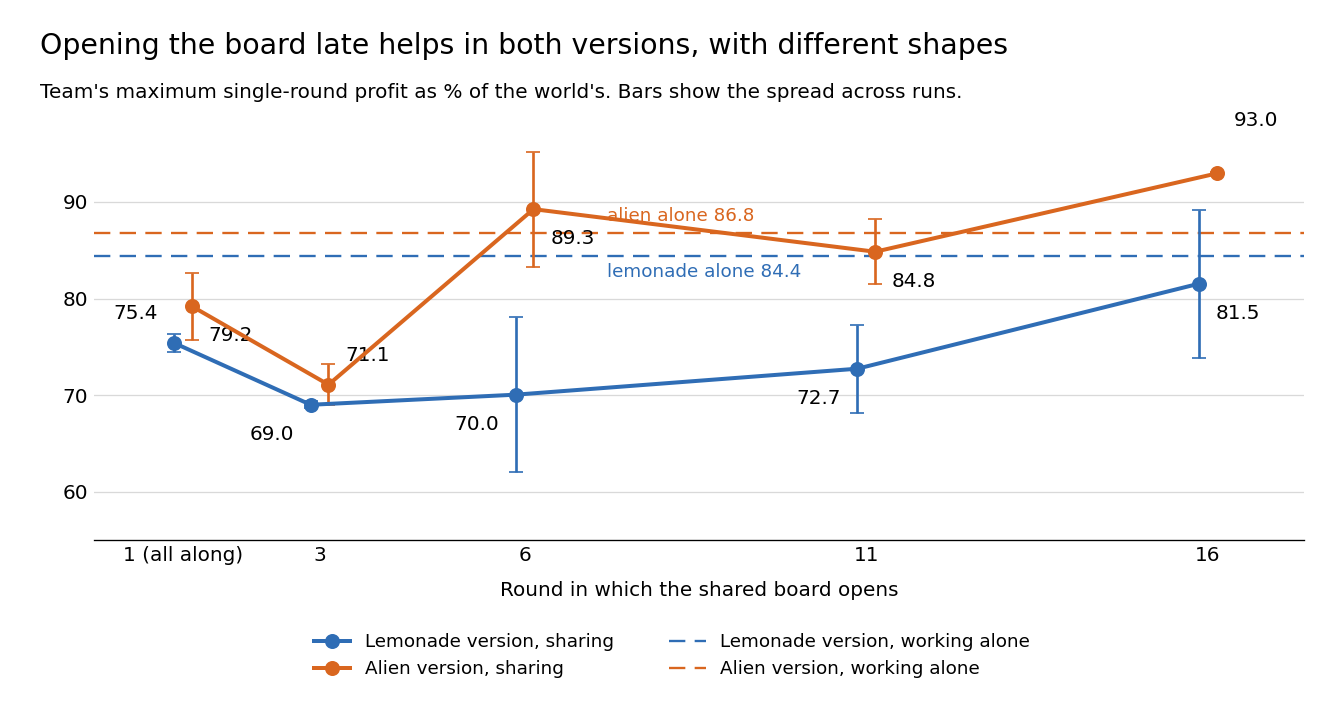
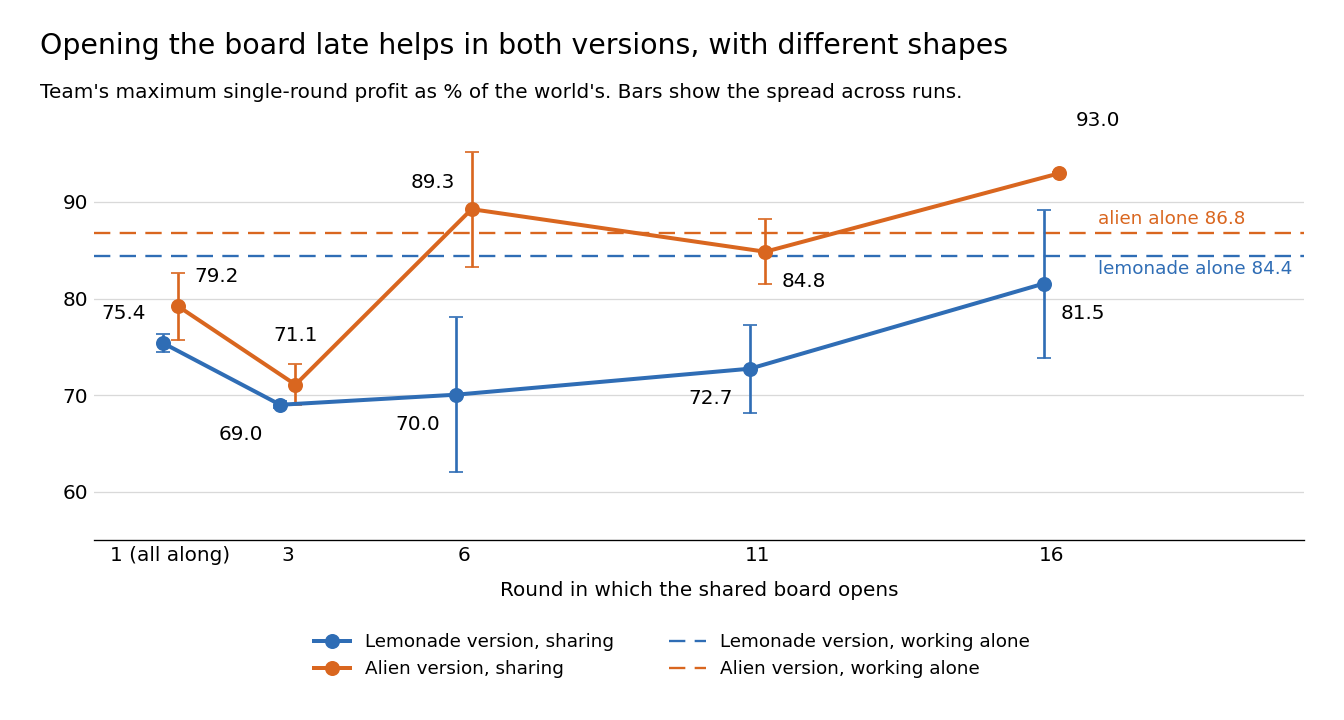
Figure 1: labels moved clear of the lines

diff --git a/paper/scripts/fig_multiagent_timing_runs.py b/paper/scripts/fig_multiagent_timing_runs.py
@@ -33,16 +33,17 @@ ax.axhline(lem_solo, color=LEM, lw=1.4, ls=(0, (7, 4)), zorder=2)
 ax.axhline(ali_solo, color=ALI, lw=1.4, ls=(0, (7, 4)), zorder=2)
 # labels sit diagonally off each point, on the side its line and its bar leave free
 LEM_OFF = {1: (-10, 12), 3: (-10, -12), 6: (-10, -12), 11: (-10, -12), 16: (10, -12)}
-ALI_OFF = {1: (10, -12), 3: (10, 12), 6: (10, -12), 11: (10, -12), 16: (10, 26)}
+ALI_OFF = {1: (10, 12), 3: (0, 24), 6: (-10, 10), 11: (10, -12), 16: (10, 26)}
 for series, xs, off in ((lem, xl, LEM_OFF), (ali, xa, ALI_OFF)):
     for x0, xi, v in zip(x, xs, series):
         dx, dy = off[x0]
-        ax.annotate(f"{v:.1f}", (xi, v), textcoords="offset points", xytext=(dx, dy), ha="right" if dx < 0 else "left",
+        ax.annotate(f"{v:.1f}", (xi, v), textcoords="offset points", xytext=(dx, dy), ha="right" if dx < 0 else ("center" if dx == 0 else "left"),
                     va="bottom" if dy > 0 else "top", fontsize=12)
-ax.text(7.2, ali_solo + 0.8, f"alien alone {ali_solo:.1f}", ha="left", va="bottom", fontsize=11, color=ALI)
-ax.text(7.2, lem_solo - 0.8, f"lemonade alone {lem_solo:.1f}", ha="left", va="top", fontsize=11, color=LEM)
+# the working-alone labels sit to the right of the last points, where no line, bar or point label reaches
+ax.text(16.8, ali_solo + 0.5, f"alien alone {ali_solo:.1f}", ha="left", va="bottom", fontsize=11, color=ALI)
+ax.text(16.8, lem_solo - 0.5, f"lemonade alone {lem_solo:.1f}", ha="left", va="top", fontsize=11, color=LEM)
 ax.set_xticks(x, ["1 (all along)", "3", "6", "11", "16"])
-ax.set_xlim(-0.3, 17.4)
+ax.set_xlim(-0.3, 20.3)
 ax.set_ylim(55, 96)
 ax.set_yticks(range(60, 100, 10))
 ax.set_xlabel("Round in which the shared board opens", labelpad=10)
